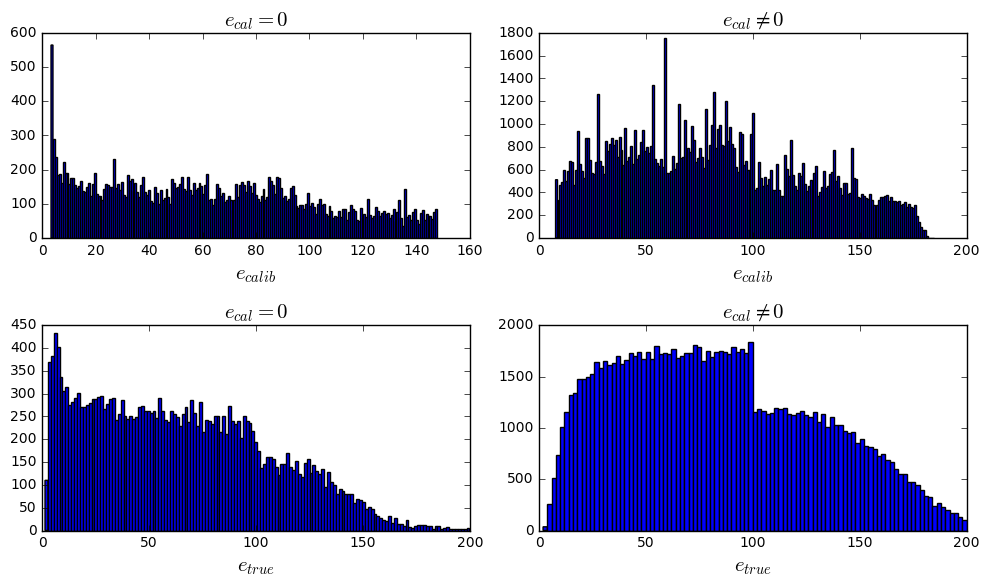
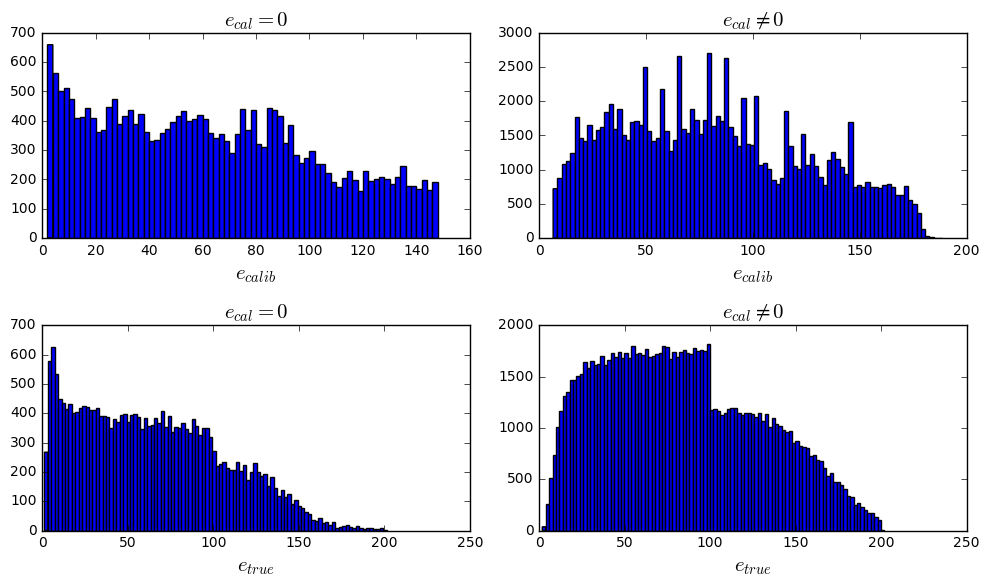
energy step

diff --git a/pfcalibration/KNNGaussianFit.py b/pfcalibration/KNNGaussianFit.py
@@ -144,7 +144,7 @@ class KNNGaussianFit:
     """
     def __init__(self,ecal_train=[],hcal_train=[],true_train=[],
                  n_neighbors_ecal_eq_0=2000,n_neighbors_ecal_neq_0=250,
-                 algorithm='auto',lim=-1,energystep = 1,kind='cubic'):
+                 algorithm='auto',lim=-1,energystep_ecal_eq_0 = 1, energystep_ecal_neq_0 = 5,kind='cubic'):
         """
         Parameters
         ----------
@@ -177,8 +177,13 @@ class KNNGaussianFit:
         to reject calibration points with ecal + hcal > lim
         if lim = - 1, there is no limit
 
-        energystep : float
+        energystep_ecal_eq_0 : float
         step between two points of evaluation
+        for ecal == 0
+        
+        energystep_ecal_neq_0 : float
+        step between two points of evaluation
+        for ecal != 0
 
         kind : str or int, optional
         Specifies the kind of interpolation as a string (‘linear’, ‘nearest’,
@@ -291,7 +296,7 @@ class KNNGaussianFit:
         hcal = y[ind][0]
         hcal_min = (max(hcal)+min(hcal))/2
         # we evaluate the true energies
-        hcal = np.arange(hcal_min,self.lim+energystep,energystep)
+        hcal = np.arange(hcal_min,self.lim+energystep_ecal_eq_0,energystep_ecal_eq_0)
         vect = np.vectorize(forOnePoint_ecal_eq_0)
         true = vect(hcal)
         hcal = hcal[np.invert(np.isnan(true))]
@@ -363,8 +368,8 @@ class KNNGaussianFit:
         hcal_min = (max(hcal)+min(hcal))/2
         ecal_min = (max(ecal)+min(ecal))/2
         # we evaluate the true energies
-        hcal = np.linspace(hcal_min,self.lim,(self.lim-hcal_min)/energystep)
-        ecal = np.linspace(ecal_min,self.lim,(self.lim-ecal_min)/energystep)
+        hcal = np.linspace(hcal_min,self.lim,(self.lim-hcal_min)/energystep_ecal_neq_0)
+        ecal = np.linspace(ecal_min,self.lim,(self.lim-ecal_min)/energystep_ecal_eq_0)
         eecal, hhcal = np.meshgrid(ecal,hcal)
         vect = np.vectorize(forOnePoint_ecal_neq_0)
         true = vect(eecal,hhcal)

diff --git a/pfcalibration/usualplots.py b/pfcalibration/usualplots.py
@@ -188,22 +188,22 @@ def hist_ecalib(calib,dataToPredict):
     c2 = calib.predict(e2,h2)
 
     plt.subplot(2,2,1)
-    plt.hist(c,binwidth_array(c))
+    plt.hist(c,binwidth_array(c,2))
     plt.xlabel(r"$e_{calib}$",fontsize=15)
     plt.title(r"$e_{cal} = 0$",fontsize=15)
     plt.subplot(2,2,2)
     c2 = c2[np.invert(np.isnan(c2))]
-    plt.hist(c2,binwidth_array(c2))
+    plt.hist(c2,binwidth_array(c2,2))
     plt.xlabel(r"$e_{calib}$",fontsize=15)
     plt.title(r"$e_{cal} \neq 0$",fontsize=15)
     plt.subplot(2,2,3)
     t = t[np.invert(np.isnan(t))]
-    plt.hist(t,binwidth_array(t))
+    plt.hist(t,binwidth_array(t,2))
     plt.xlabel(r"$e_{true}$",fontsize=15)
     plt.title(r"$e_{cal} = 0$",fontsize=15)
     plt.subplot(2,2,4)
     t2 = t2[np.invert(np.isnan(t2))]
-    plt.hist(t2,binwidth_array(t2))
+    plt.hist(t2,binwidth_array(t2,2))
     plt.xlabel(r"$e_{true}$",fontsize=15)
     plt.title(r"$e_{cal} \neq 0$",fontsize=15)
     plt.tight_layout()

diff --git a/pfcalibration/EnergyData.py b/pfcalibration/EnergyData.py
@@ -119,9 +119,9 @@ class EnergyData:
         print("KNNGaussianCleaning - Calibration made in",end-begin,"s")
         return calib
 
-    def KNNGaussianFit(self,n_neighbors_ecal_eq_0=2000,n_neighbors_ecal_neq_0=250,algorithm='auto',lim=-1,energystep=1,kind='cubic'):
+    def KNNGaussianFit(self,n_neighbors_ecal_eq_0=2000,n_neighbors_ecal_neq_0=250,algorithm='auto',lim=-1,energystep_ecal_eq_0=1,energystep_ecal_neq_0 = 5,kind='cubic'):
         begin = time.time()
-        calib = KNNGaussianFit(self.ecal,self.hcal,self.true,n_neighbors_ecal_eq_0,n_neighbors_ecal_neq_0,algorithm,lim,energystep,kind)
+        calib = KNNGaussianFit(self.ecal,self.hcal,self.true,n_neighbors_ecal_eq_0,n_neighbors_ecal_neq_0,algorithm,lim,energystep_ecal_eq_0,energystep_ecal_neq_0,kind)
         end = time.time()
         print("KNNGaussianFit - Calibration made in",end-begin,"s")
         return calib

diff --git a/test_KNNGF.py b/test_KNNGF.py
@@ -34,12 +34,13 @@ data1,data2 = data1.splitInTwo()
 # parameters of the calibration
 lim = 150                   # if ecal + hcal > lim, ecalib = math.nan
 n_neighbors_ecal_eq_0=2000  # number of neighbors for ecal = 0
-n_neighbors_ecal_neq_0=500  # number of neighbors for ecal ≠ 0
-energystep = 1
+n_neighbors_ecal_neq_0=250  # number of neighbors for ecal ≠ 0
+energystep_ecal_eq_0 = 1
+energystep_ecal_neq_0 = 5
 # We create the calibration
 KNNGF = data1.KNNGaussianFit(n_neighbors_ecal_eq_0=n_neighbors_ecal_eq_0,
                              n_neighbors_ecal_neq_0=n_neighbors_ecal_neq_0,
-                             lim=lim,energystep=energystep,kind='cubic')
+                             lim=lim,energystep_ecal_eq_0=energystep_ecal_eq_0,energystep_ecal_neq_0=energystep_ecal_neq_0,kind='cubic')
 
 classname = type(KNNGF).__name__
 #courbe de calibration pour ecal = 0
